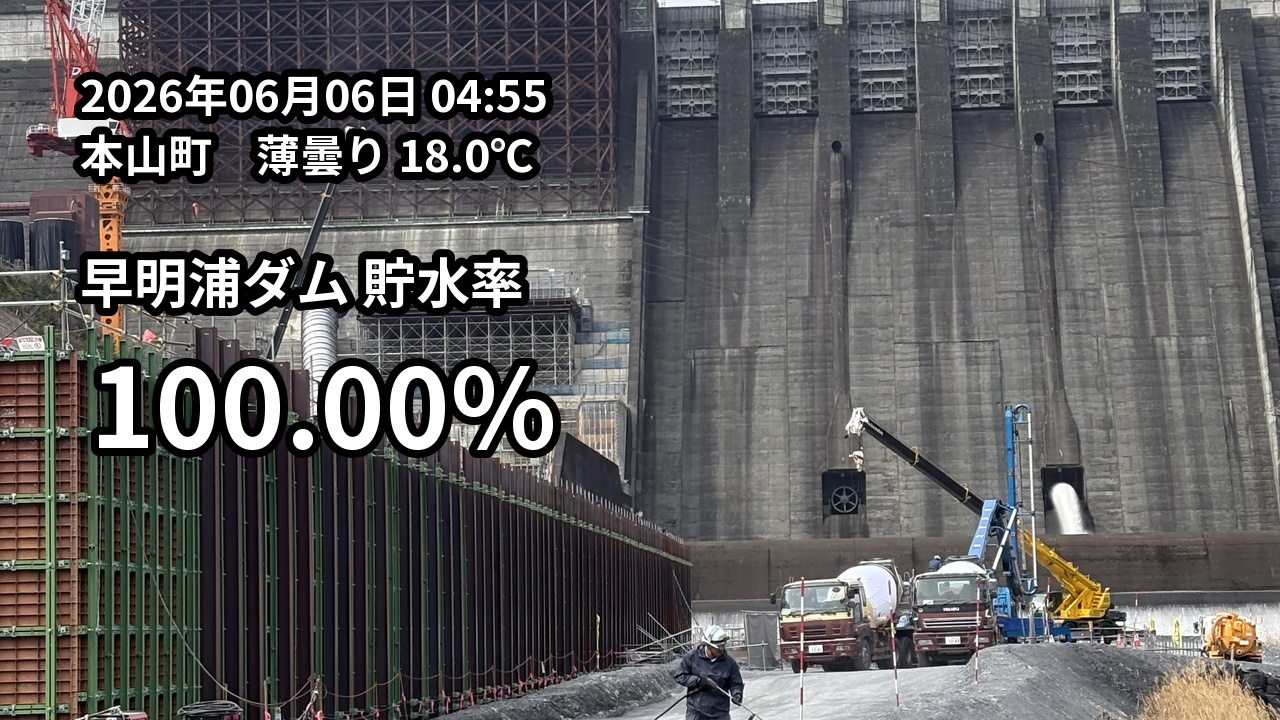
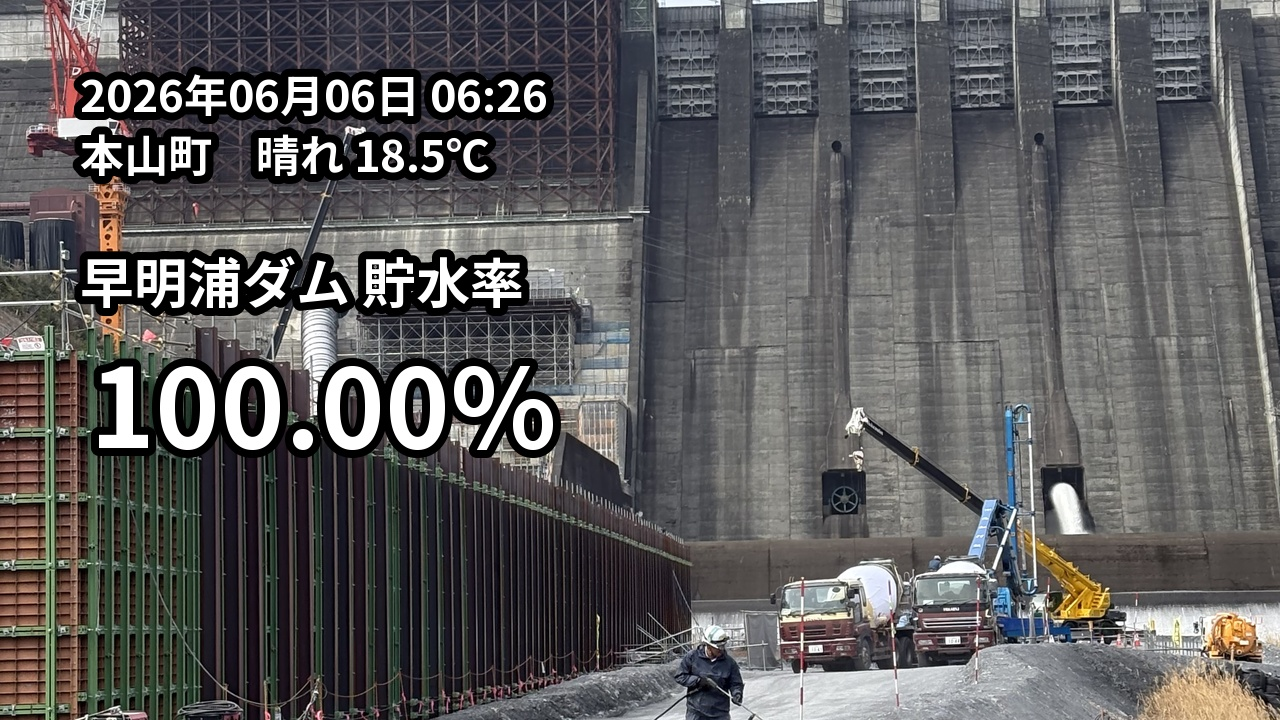
Update daily image

Changed region(s): [[0.1875, 0.0917, 0.4375, 0.275]]

diff --git a/index.html b/index.html
@@ -10,6 +10,6 @@
   </style>
 </head>
 <body>
-  <img src="result.jpg?v=202606060455" alt="早明浦ダム 貯水率" />
+  <img src="result.jpg?v=202606060626" alt="早明浦ダム 貯水率" />
 </body>
 </html>
